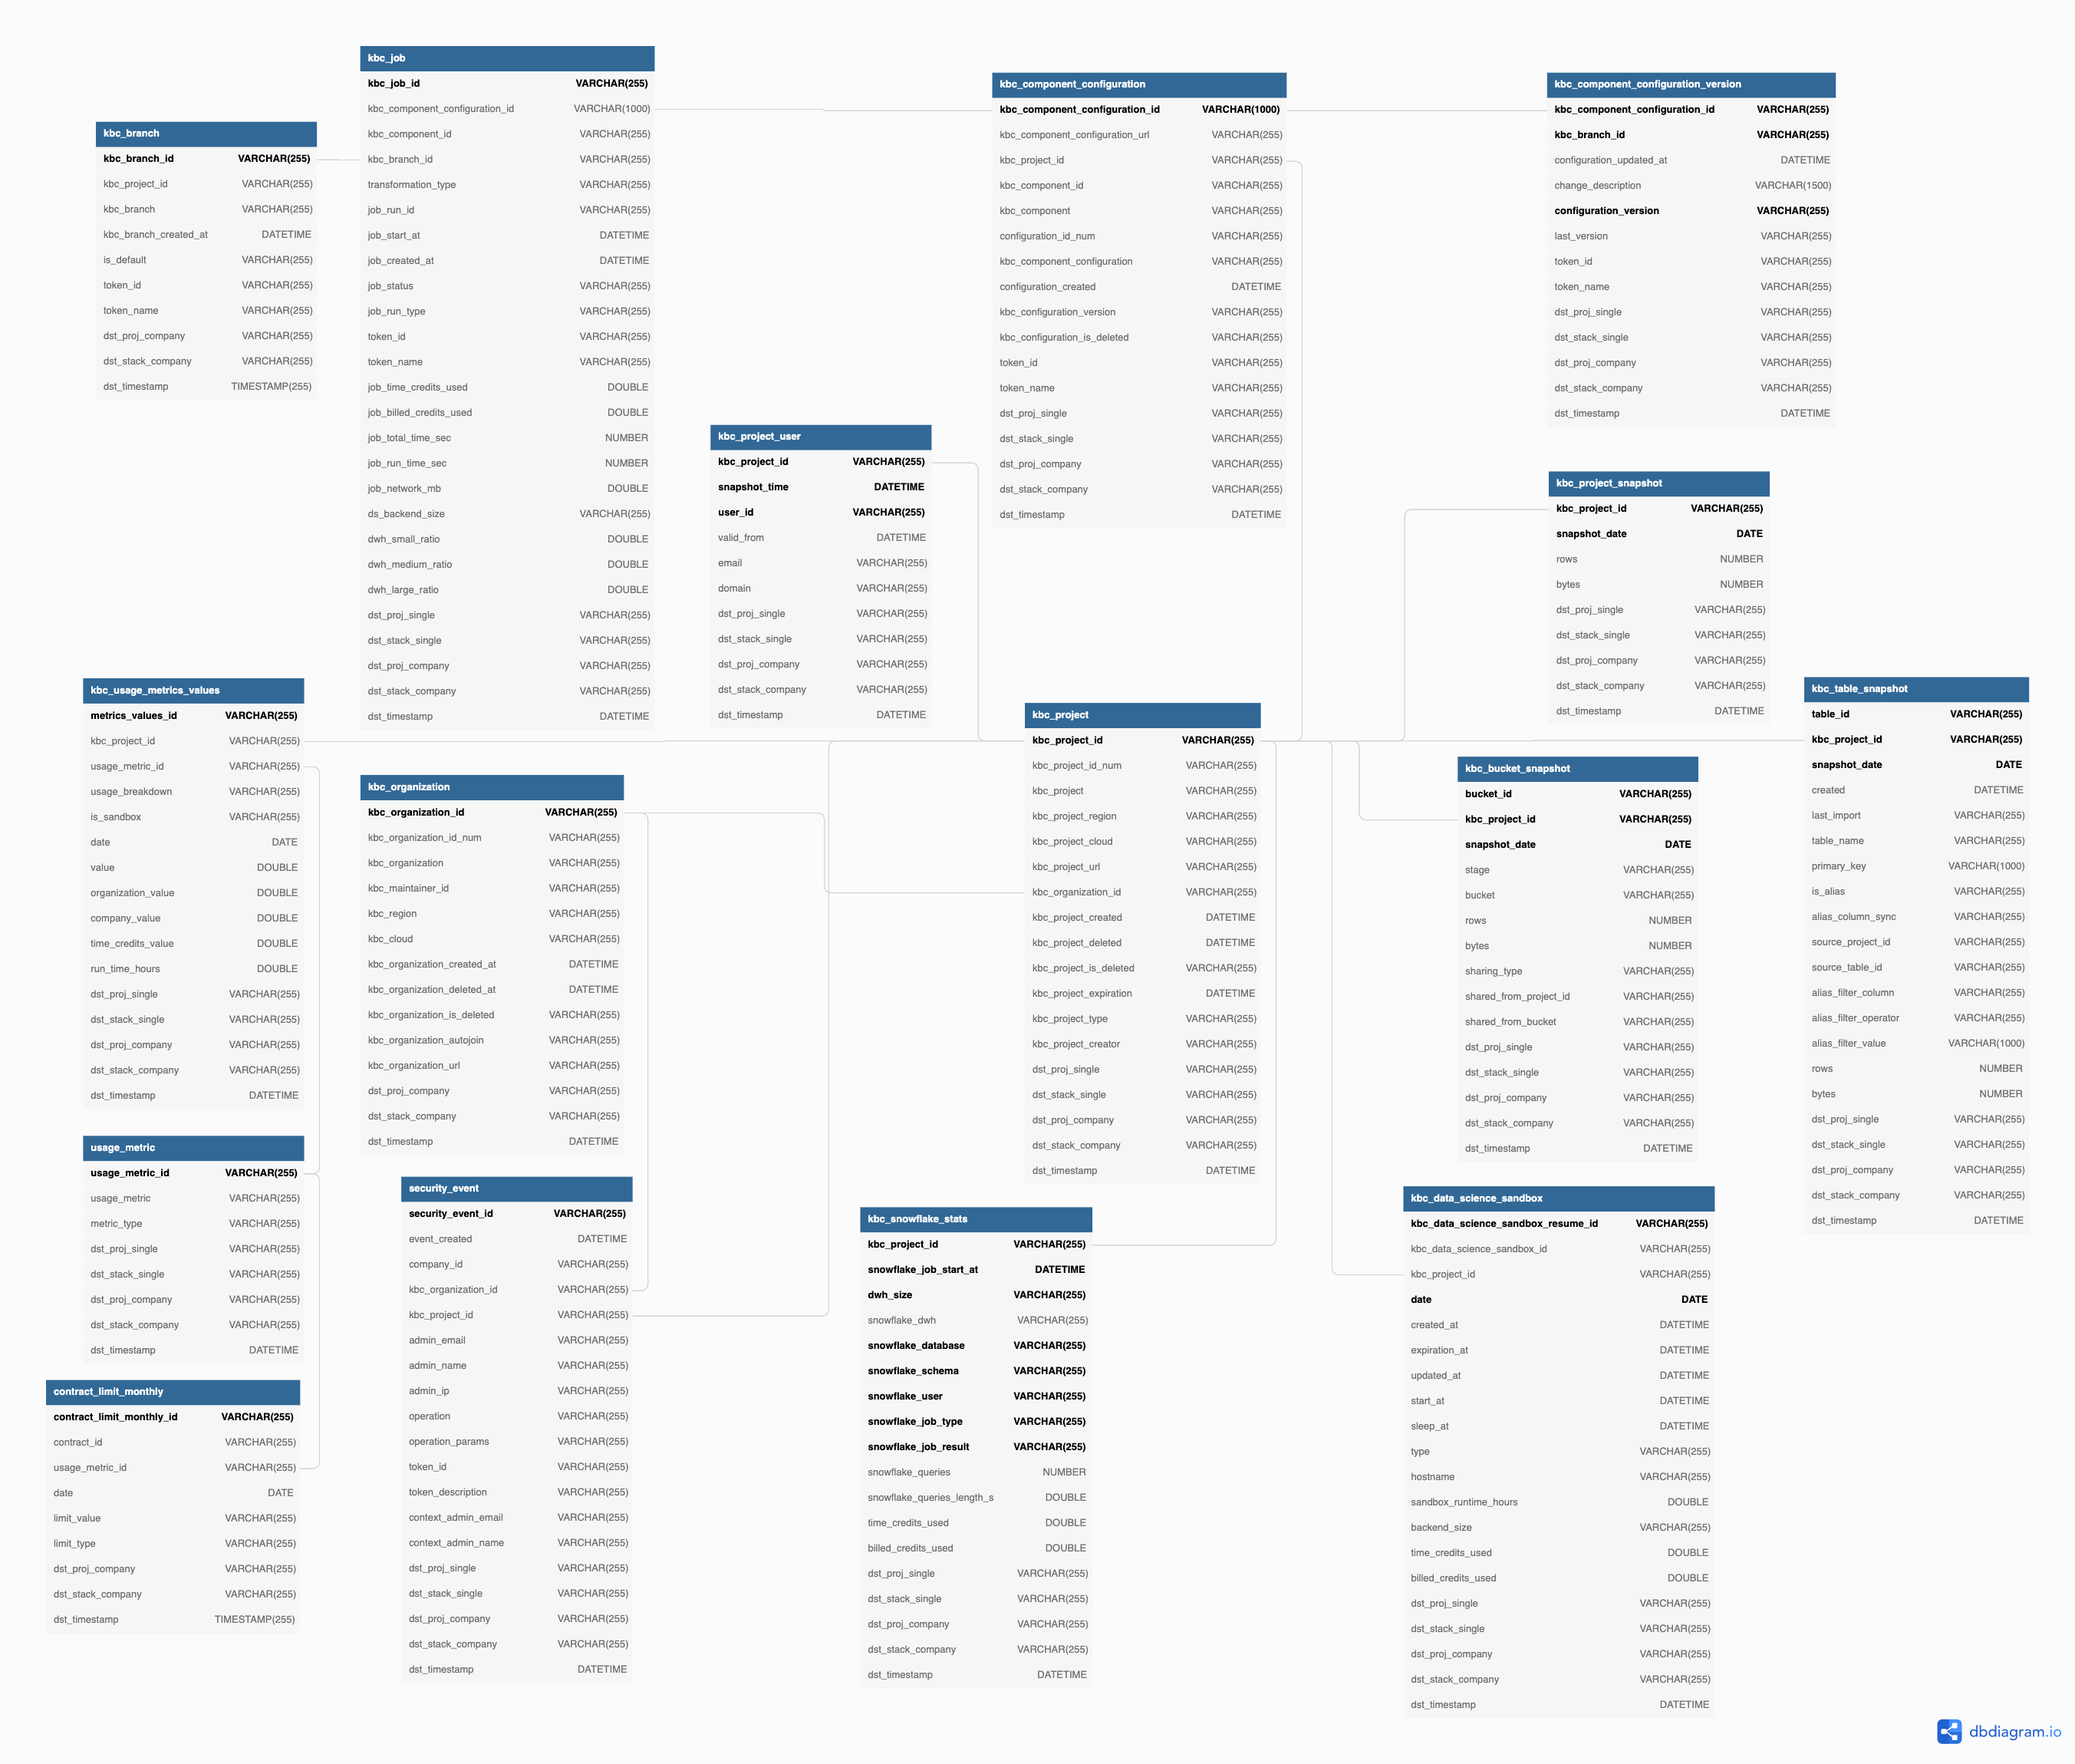
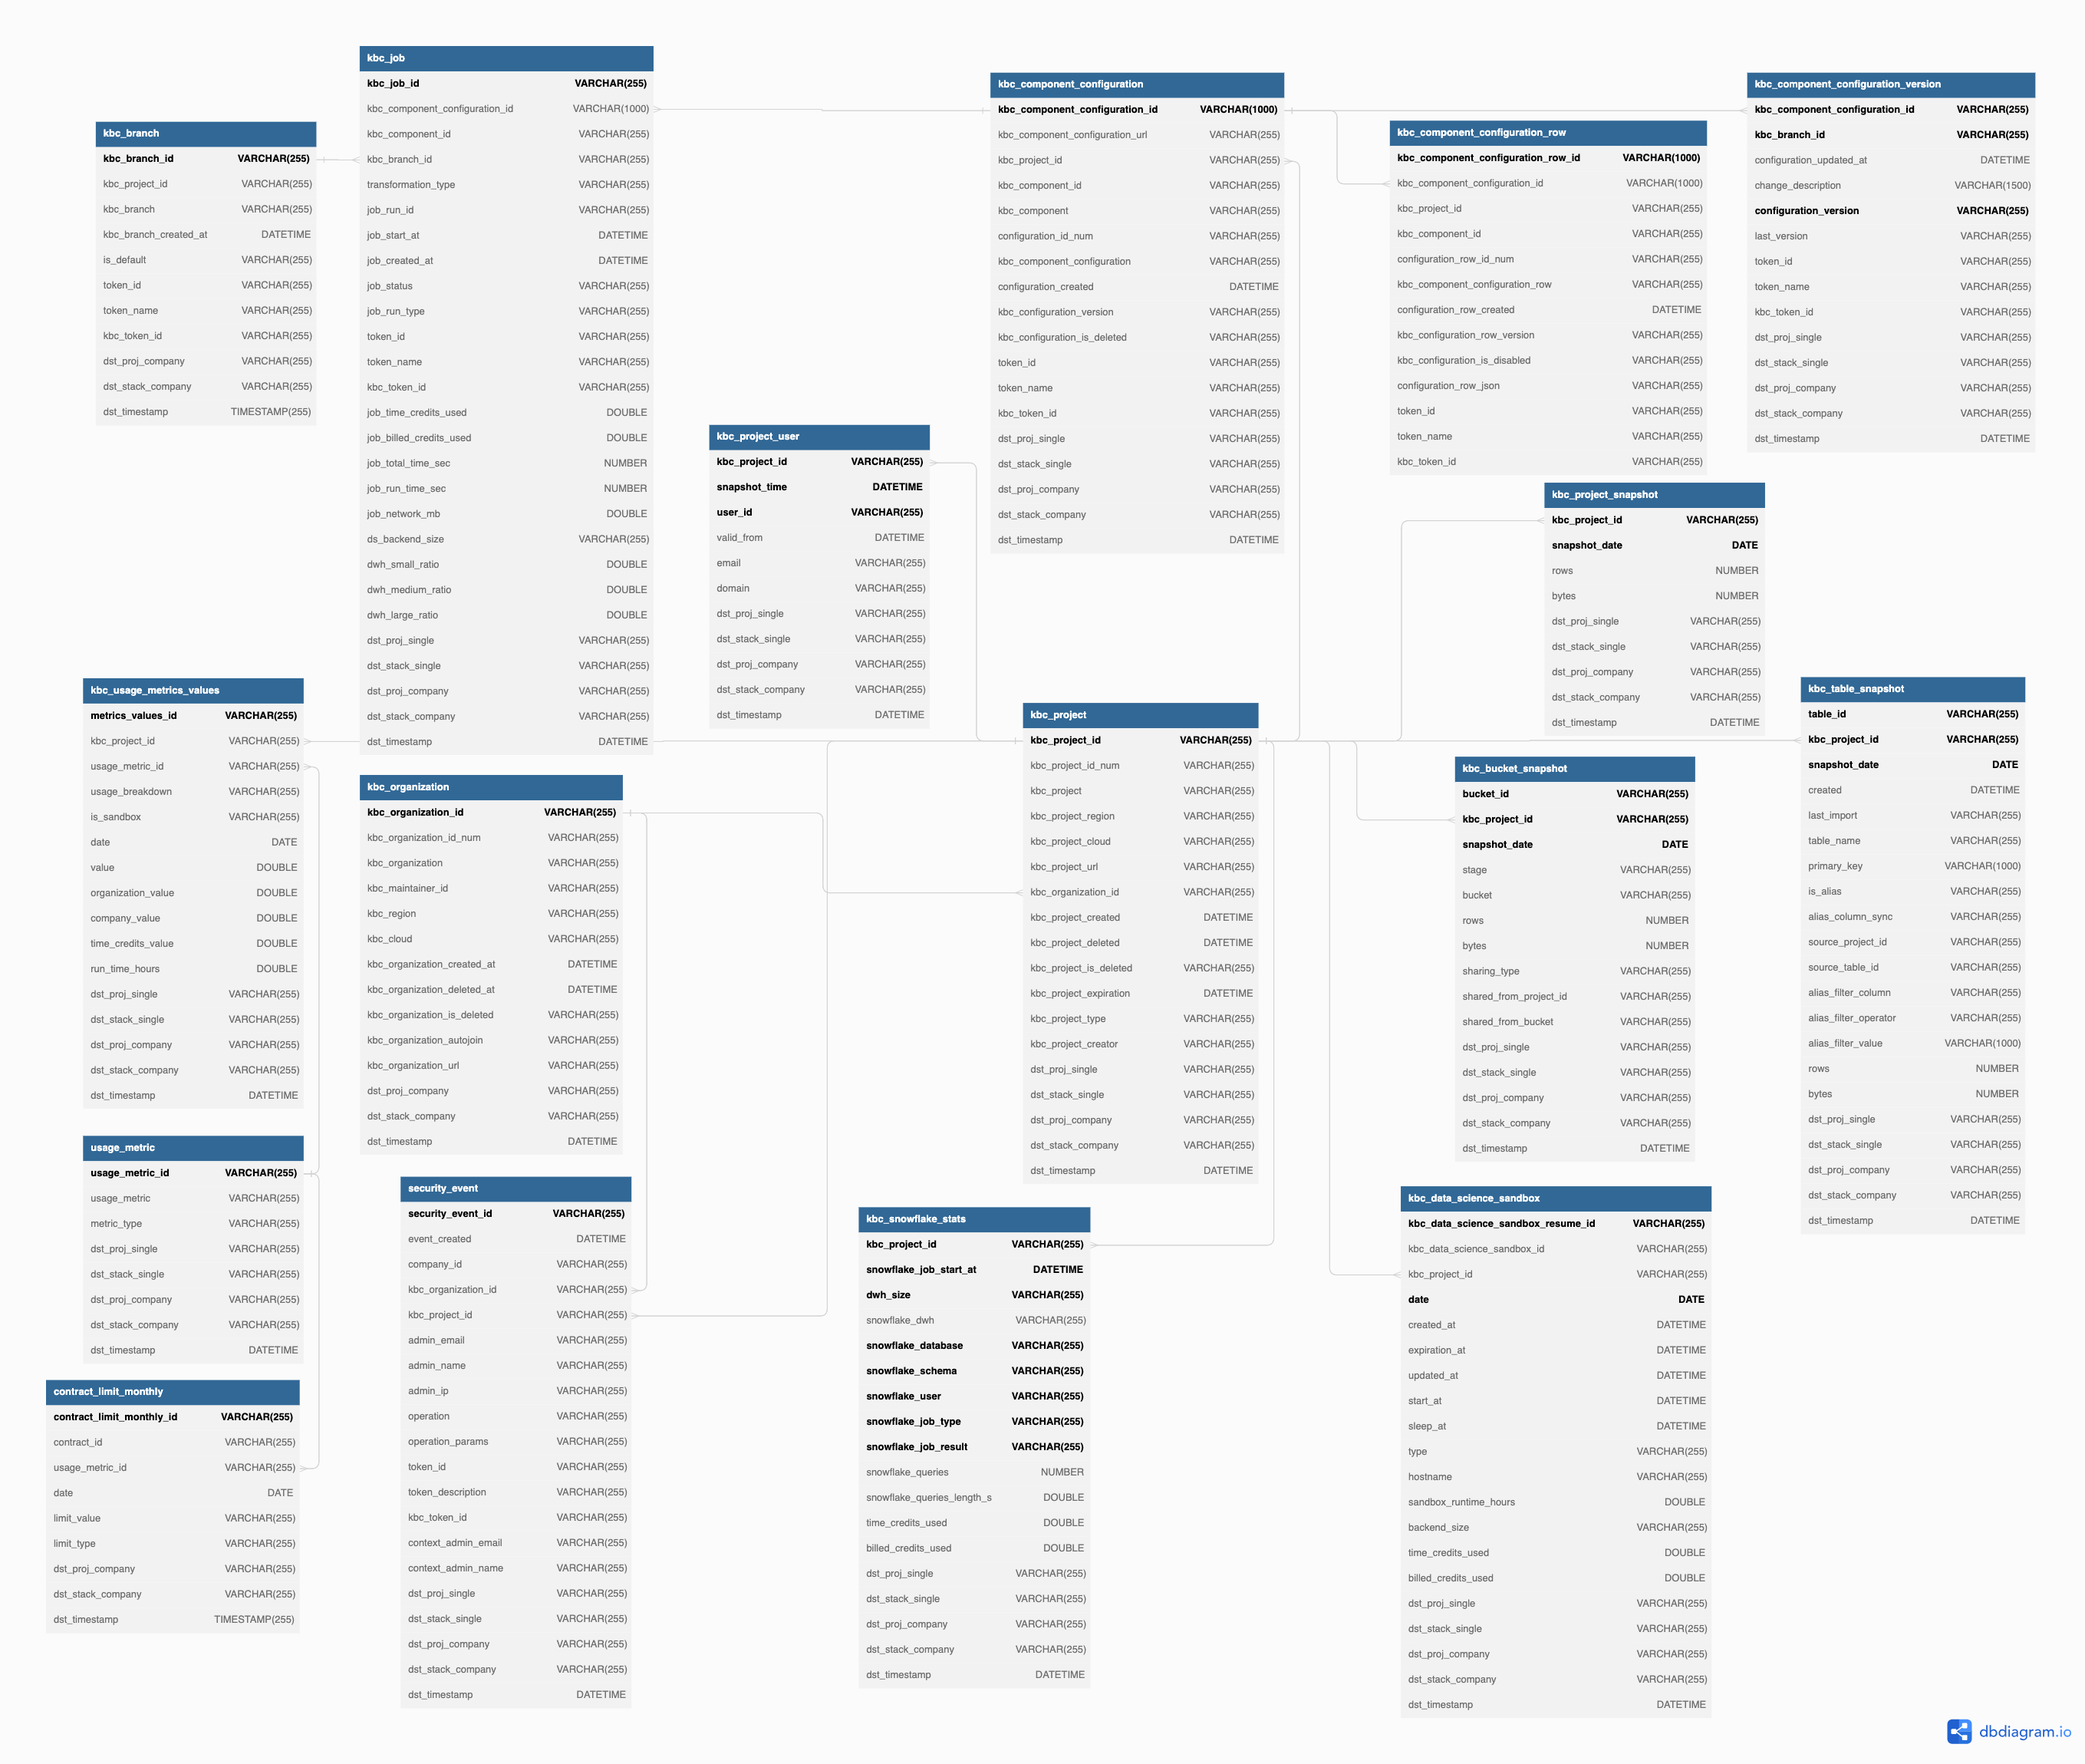
Telemetry ex updates
Aktualizoval jsem dokumentaci Telemetry ex po posledních úpravách:
* Nová tabulka s config rows,
* nové sloupce (zejména kbc_token_id),
* aktualizovaný obrázek modelu.

diff --git a/components/extractors/other/telemetry-data/telemetry-data.md b/components/extractors/other/telemetry-data/telemetry-data.md
@@ -36,7 +36,7 @@ organizations, projects, users, security events, and contract limits.
 This table shows snapshots of the buckets in Storage.
 
 | **Column** | **Description** | **Example** | 
-| `bucket_id` (PK) | Storage bucket identifier | `in.c-instagram` |
+| `bucket_id` (PK) | Storage bucket identifier | `1147628` |
 | `kbc_project_id` (PK) | Foreign key to a KBC project | `866_kbc-eu-central-1` |
 | `snapshot_date` (PK) | Date of the data snapshot | `2020-06-30` |
 | `stage` | Storage stage of the bucket | `in` |
@@ -54,10 +54,11 @@ This table shows main and development [branches](/components/branches/) in the p
 | `kbc_branch_id` (PK) | KBC Branch identifier | `3419_kbc-eu-central-1` |
 | `kbc_project_id` | Foreign key to a KBC project | `866_kbc-eu-central-1` |
 | `kbc_branch` | Name of the branch | `My dev branch` |
-| `kbc_branch_created_at` | Datetime of the branch creation | `2022-05-18T06:13:45Z` |
+| `kbc_branch_created_at` | Datetime of the branch creation | `2022-05-18 06:13:45` |
 | `is_default` | Determines if the branch is the main (default) branch (`true`, `false`) | `false` |
 | `token_id` | Identifier of the token that created this branch | `241247` |
 | `token_name` | Name of the token that created this branch | `martin.matejka@keboola.com` |
+| `kbc_token_id` | Unique identifier of the token containing stack identification | `241247_kbc-us-east-1` |
 
 
 ### kbc_component_configuration
@@ -72,10 +73,13 @@ This table lists the [configurations of the components](/components/#creating-co
 | `kbc_component` | Name of the component | `Generic` |
 | `configuration_id_num` | Numeric identifier of the configuration | `610931033` |
 | `kbc_component_configuration` | Name of the configuration | `Sample data from Dynamics` |
+| `configuration_created` | Datetime of the configuration creation | `2022-07-20 18:45:17` |
 | `kbc_configuration_version` | Current version of the configuration | `5` |
 | `kbc_configuration_is_deleted` | Flag determining if the configuration is deleted (`true`, `false`) | `false` |
+| `configuration_json` | Complete JSON configuration of the component | `{"parameters":{"id":"34289954"}}` |
 | `token_id` | Identifier of the token that created this version of the configuration | `241247` |
 | `token_name` | Name of the token that created this version of the configuration | `martin.matejka@keboola.com` |
+| `kbc_token_id` | Unique identifier of the token containing stack identification | `241247_kbc-us-east-1` |
 
 
 ### kbc_component_configuration_version
@@ -91,6 +95,27 @@ of the component configuration.
 | `last_version` | Flag determining if this is the last version of the configuration (`true`, `false`) | `false` |
 | `token_id` | Identifier of the token that created this version of the configuration | `241247` |
 | `token_name` | Name of the token that created this version of the configuration | `martin.matejka@keboola.com` |
+| `kbc_token_id` | Unique identifier of the token containing stack identification | `241247_kbc-us-east-1` |
+
+
+### kbc_component_configuration_row
+This table lists rows of the [configurations of the components](/components/#creating-component-configuration) 
+(e.g., a configuration of a single table of the Snowflake writer).
+
+| **Column** | **Description** | **Example** |  
+| `kbc_component_configuration_row_id` (PK) | Component configuration row identifier | `8765_kbc-us-east-1_keboola.ex-db-mysql_844500148_844500150` |
+| `kbc_component_configuration_id` | Foreign key to the KBC Component Configuration | `8765_kbc-us-east-1_keboola.ex-db-mysql_844500148` |
+| `kbc_project_id` | Foreign key to the KBC project | `8765_kbc-us-east-1` |
+| `kbc_component_id` | Identifier of the component | `keboola.ex-db-mysql_kbc-us-east-1` |
+| `configuration_row_id_num` | Numeric identifier of the configuration row | `844500150` |
+| `kbc_component_configuration_row` | Name of the configuration row | `test_view` |
+| `configuration_row_created` | Datetime of the configuration row creation | `2022-04-25 11:59:42` |
+| `kbc_configuration_row_version` | Current version of the configuration row | `1` |
+| `kbc_configuration_is_disabled` | Flag determining if the configuration is disabled (`true`, `false`) | `false` |
+| `configuration_row_json` | Complete JSON configuration row of the component | `{"parameters":{"incremental":false}}` |
+| `token_id` | Identifier of the token that created this version of the configuration row | `241247` |
+| `token_name` | Name of the token that created this version of the configuration | `martin.matejka@keboola.com` |
+| `kbc_token_id` | Unique identifier of the token containing stack identification | `241247_kbc-us-east-1` |
 
 
 ### kbc_data_science_sandbox
@@ -135,6 +160,7 @@ This table lists the Keboola Connection [jobs](/management/jobs/)
 | `job_run_type` | Determines if the job was run by an orchestration or manually (`orchestration`, `manual`) | `orchestration` |
 | `token_id` | Identifier of the token that ran this job | `145062` |
 | `token_name` | Name of the token that ran this job | `Orchestrator GDrive` |
+| `kbc_token_id` | Unique identifier of the token containing stack identification | `145062_kbc-eu-central-1` |
 | `job_time_credits_used` | Number of the time credits consumed by the job | `0.001218890000` |
 | `job_billed_credits_used` | Number of the actually billed credits | `0.001218890000` |
 | `job_total_time_sec` | Total time of the job in seconds (since the job’s initial trigger; its start might be delayed) | `63` |
@@ -234,6 +260,7 @@ This table shows [Storage table](/storage/tables/) snapshots.
 | `table_id` (PK) | Storage table identifier | `in.c-GDU_Management.status` |
 | `kbc_project_id` (PK) | Foreign key to the KBC project | `239_kbc-eu-central-1` |
 | `snapshot_date` (PK) | Date of the data snapshot | `2020-07-02` |
+| `bucket_id` | Foreign key to the KBC Bucket | `1695` |
 | `created` | Datetime the table was created | `2020-07-02 08:27:03` |
 | `last_import` | Datetime of the last import to the table | `2020-07-02 08:33:39` |
 | `table_name` | Name of the Storage table | `status` |
@@ -301,6 +328,7 @@ organization, or to the Keboola Connection platform itself.
 | `operation_params` | Additional operation parameters. Possible values are listed in the table [Operation parameters](#operation-parameters) below. | `password` |
 | `token_id` | Token identifier if it’s a part of the event (e.g., token creation) | `47949` |
 | `token_description` | Token description if it’s a part of the event (e.g., token creation) | `token for linking shared bucket to project` |
+| `kbc_token_id` | Unique identifier of the token containing stack identification | `47949_kbc-us-east-1` |
 | `context_admin_email` | Email of the user in the context with the event (e.g., invitation or admin removal) | `martin.matejka@keboola.com` |
 | `context_admin_name` | Name of the user in the context with the event (e.g., invitation or admin removal) | `Martin Matejka` |
 
